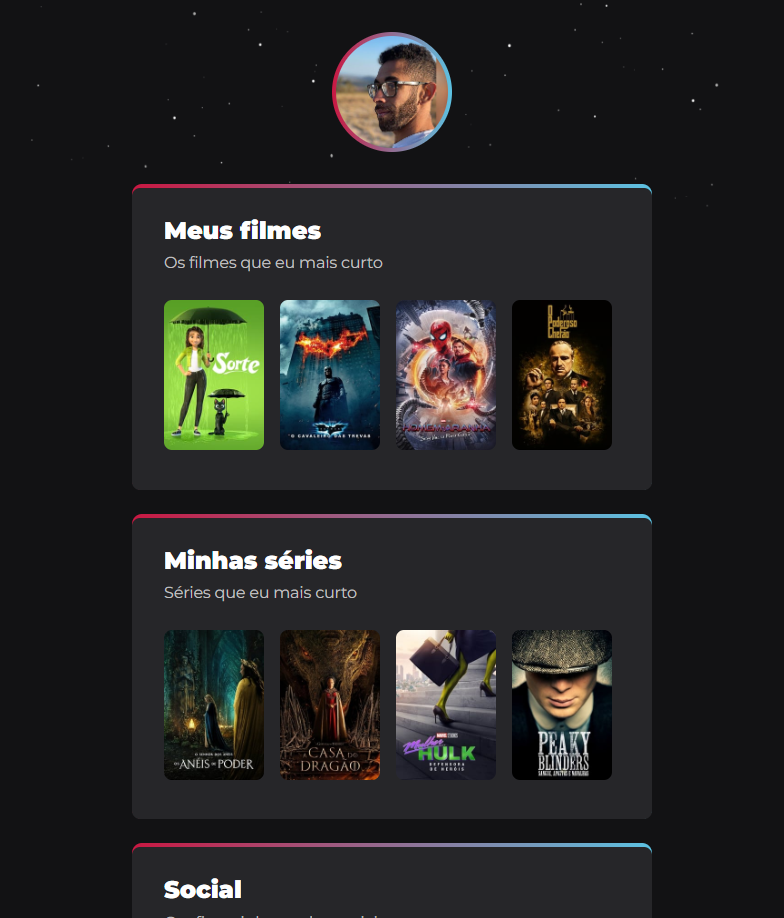
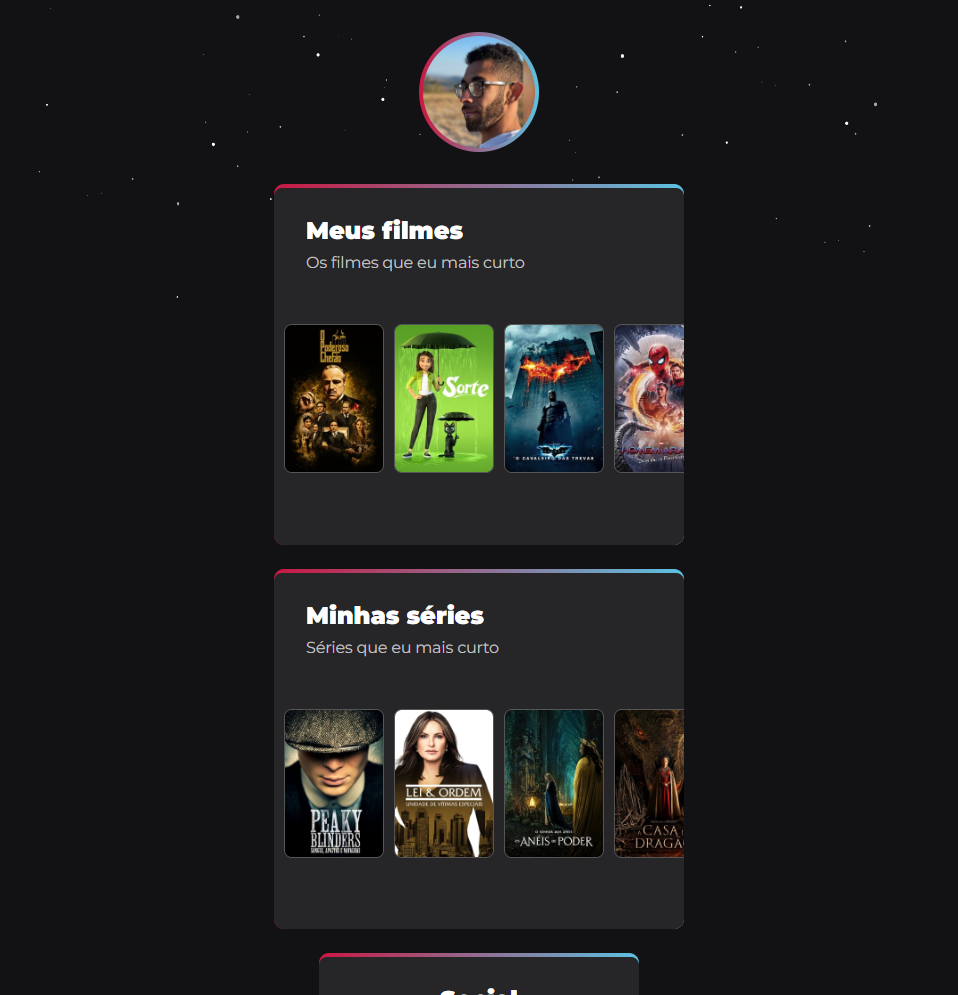
update readme and css

Changed region(s): [[0.1837, 0.0305, 0.8265, 0.488], [0.1837, 0.549, 0.8265, 0.8845], [0.1837, 0.915, 0.8265, 1.0]]

diff --git a/style.css b/style.css
@@ -151,7 +151,7 @@ main section:nth-child(3) {
 
 /* Swiper */
 main {
-    max-width: 360px;
+    max-width: 410px;
 }
 
 section {
@@ -159,6 +159,8 @@ section {
 }
 
 section ul {
-    gap: 40px;
+    padding-left: 8px;
+    gap: 16px;
     flex-wrap: nowrap;
 }
+

diff --git a/scripts.js b/scripts.js
@@ -1,4 +1,5 @@
 var swiper = new Swiper(".mySwiper", {
     slidesPerView: 3,
+    // spacebetween: 30,
     loop: true,
 });
